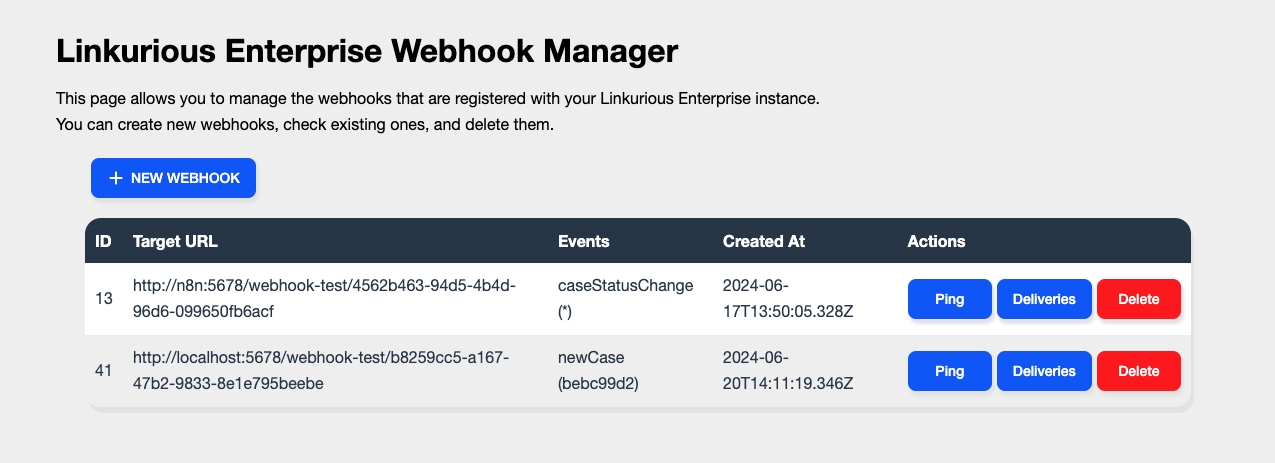
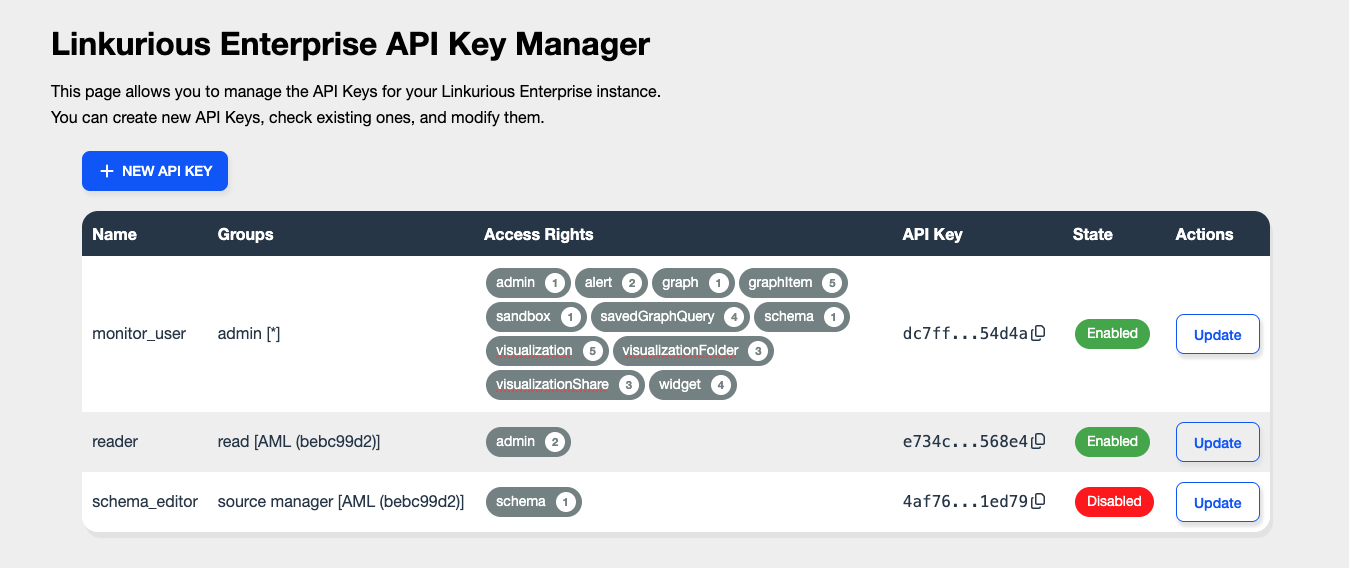
added Documentation

diff --git a/README.md b/README.md
@@ -1,3 +1,90 @@
-# API Key Manager Plugin for Linkurious Enterprise
+<!-- omit in toc -->
+# API Key Manager [plugin for Linkurious Enterprise](https://doc.linkurious.com/admin-manual/latest/plugins/)
 
-This plugin allows to easily configure API Keys for Linkurious Enterprise
+
+<!-- auto generated with https://marketplace.visualstudio.com/items?itemName=yzhang.markdown-all-in-one -->
+<!-- omit in toc -->
+## Table of contents
+- [Compatibility](#compatibility)
+- [Configurations](#configurations)
+- [URL Parameters](#url-parameters)
+- [User Manual](#user-manual)
+  - [Review an API Key;](#review-an-api-key)
+  - [](#)
+  - [Create an API Key](#create-an-api-key)
+  - [Edit an API Key](#edit-an-api-key)
+- [Licensing](#licensing)
+
+# Compatibility
+
+This plugin is compatible with Linkurious Enterprise starting from v4.3.0.
+
+# Configurations
+
+This plugin does not require any additional configuration parameter.
+
+# URL Parameters
+
+The plugin can be accessed from its home page without the need to specify any URL parameter.
+
+# User Manual
+
+![API Key Manager](doc-assets/main-page.png)
+
+This plugin allows you to manage the [API Keys](https://doc.linkurious.com/server-sdk/latest/use-the-api-key/) that are registered with your Linkurious Enterprise instance.
+
+With a default configuration, it is possible to access the plugin under the `/plugins/api-key-manager/` path (e.g. `http://127.0.0.1:3000/plugins/api-key-manager/`).
+
+Access to the plugin is allowed only to users who are part of the `admin` group (please, refer to [this page](https://doc.linkurious.com/admin-manual/latest/access-control/) for more information on Linkurious Enterprise access control).
+
+The plugin allows the following actions to be performed:
+
+- review exsisting API Keys;
+- create a new API Key;
+- edit an existing API Keys.
+
+## Review an API Key;
+
+All the existing API Keys are enlisted in the main page of the plugin.
+
+For each API Key, it's possible to check:
+- the *name* associated to it;
+- the *group(s)* the groups that it will impersonate;
+- the list of available *Access Rights*, which are grouped by category. Each category displays the category name and a badge showing the total number of enabled access rights. Hovering over a category displays a tooltip with more information;  
+<p align="center"><img src="doc-assets/focus.png" alt="Access Rights"/></p>
+- 
+- the actual *API Key*: it can be easily copied by simply clicking on it;
+- its *state*: whether is enabled or not,
+
+An *Update* button is also available to modify the selected API key.
+
+## Create an API Key
+
+By clicking on the `+ NEW API KEY` button in the main page, it will be possible to create a new webhook via a form.
+
+![Create an API Key](doc-assets/create.png)
+
+To create an API Key:
+- `Name`: snter a name to identify the API key;
+- `Enabled`: whether the API key will be active immediately after creation;
+- `Access Rights`: select the access rights to assign to the API key. Clicking on a category selects all access rights within that category. For more granular control, expand the category and select the individual access rights you want to grant;  
+<p align="center"><img src="doc-assets/access-rights.png" alt="Access Rights"/></p>
+
+- `Groups`: define the groups that the API key can impersonate by selecting the appropriate datasource and group. You can add multiple groups if needed.  
+<p align="center"><img src="doc-assets/groups.png" alt="Groups"/></p>
+
+
+Once these fields are configured, click `CREATE` to generate the API Key.
+
+Any errors and/or invalid values will be shown in the form.
+
+##  Edit an API Key
+
+An `Update` button is present on each row of the API Keys table.
+By clicking on it, it's possible to edit the permissions of the selected API Key
+
+A pre-filled form identical to the one for creating an API Key will be displayed.
+
+# Licensing
+
+The `API Key Manager` is licensed under the Apache License, Version 2.0. See [LICENSE](/LICENSE) for the full license text.
